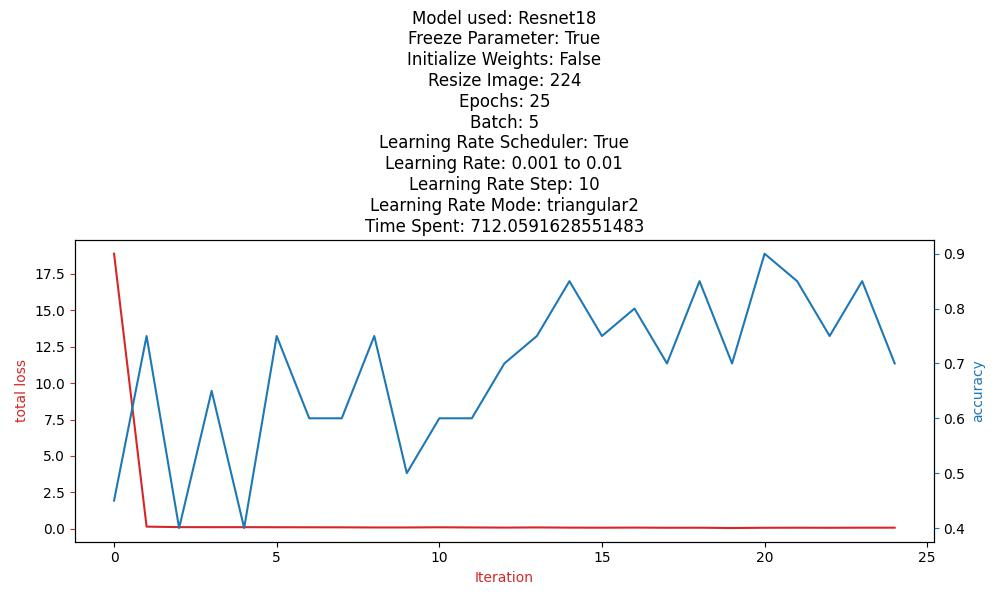
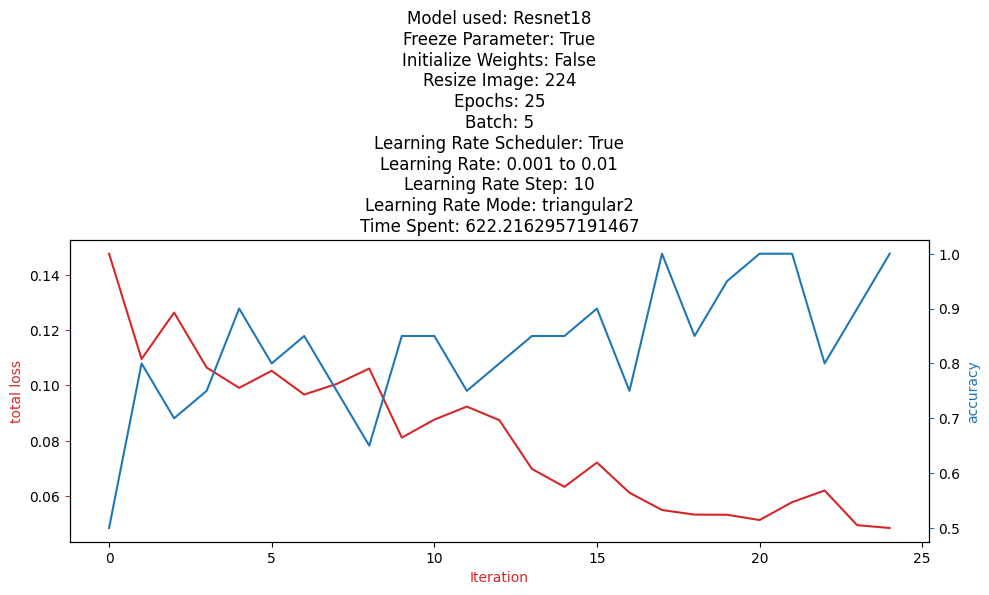
add

diff --git a/README.md b/README.md
@@ -60,7 +60,7 @@ There are 21 different classes prepared. The same class has different variations
 
 <h3 align="center">ConvNeXt and Resnet18 Fine-tune Rusults</h3>
 <p align="left">
-By comparing with the Resnet18 model, the ConvNeXt model can achieve out-of-sample accuracy of more than 90% in 10 epochs. The Resnet18 model on the other hand, can only peak at 90% out-of-sample accuracy.
+By comparing with the Resnet18 model, the ConvNeXt model can achieve a stable out-of-sample accuracy of more than 90% in 10 epochs, and its training loss can reach less than 2.5% at 15 epochs. The Resnet18 model, on the other hand, has out-of-sample accuracy fluctuating, and can not maintain a stable high out-of-sample accuracy, and its training loss is still around 6% after 25 epochs.
 </p>
 
 <p align="center"><b>Best Results Settings for both Models</b></p>
